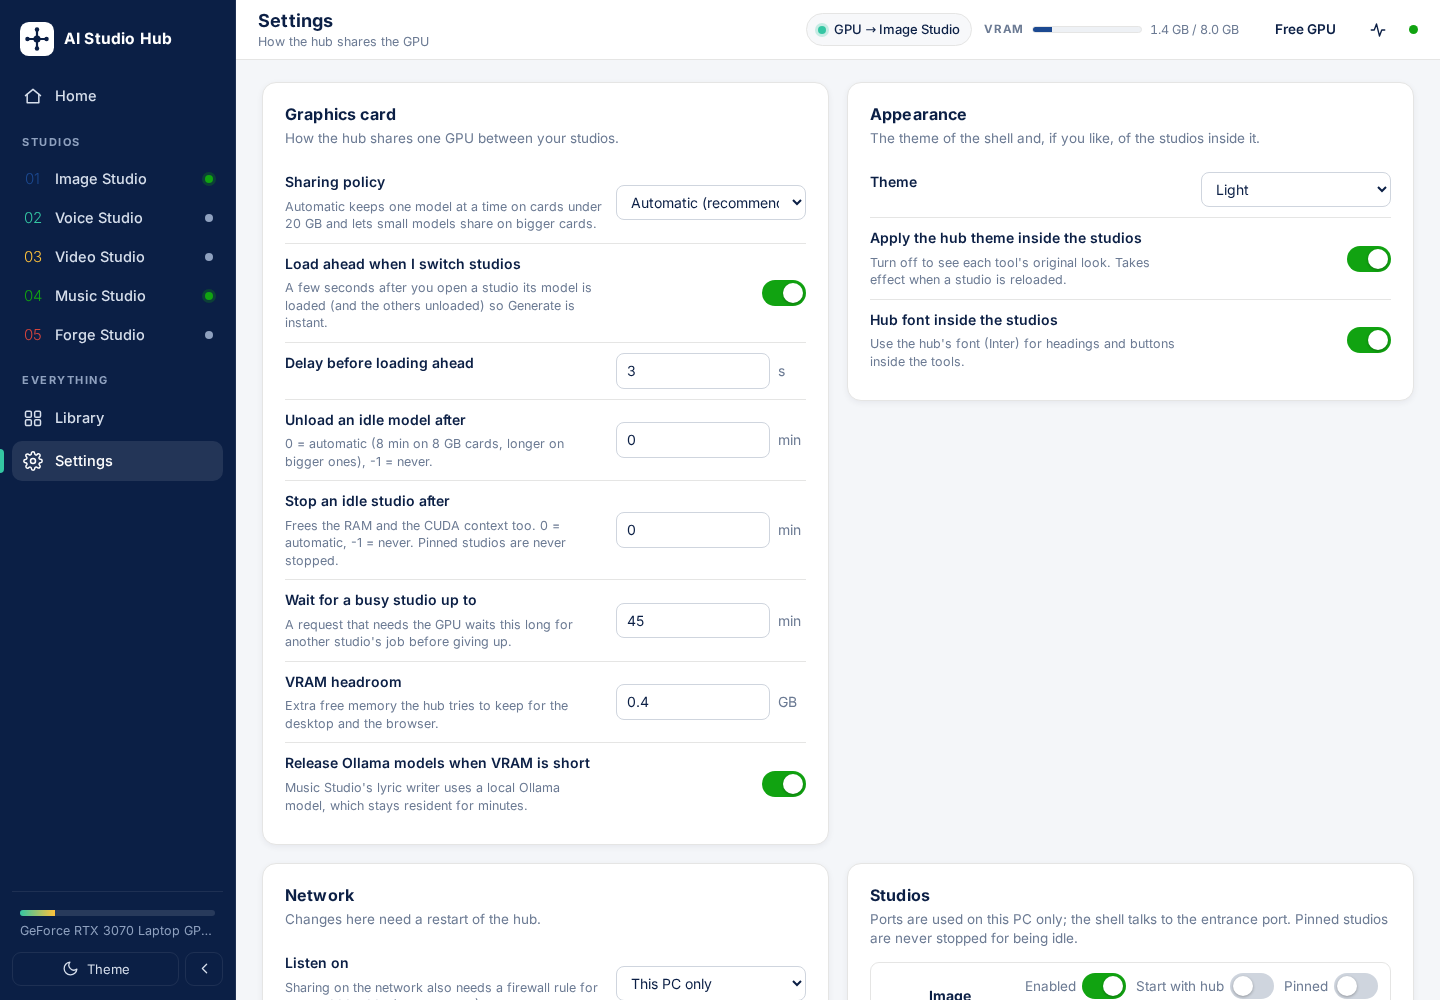
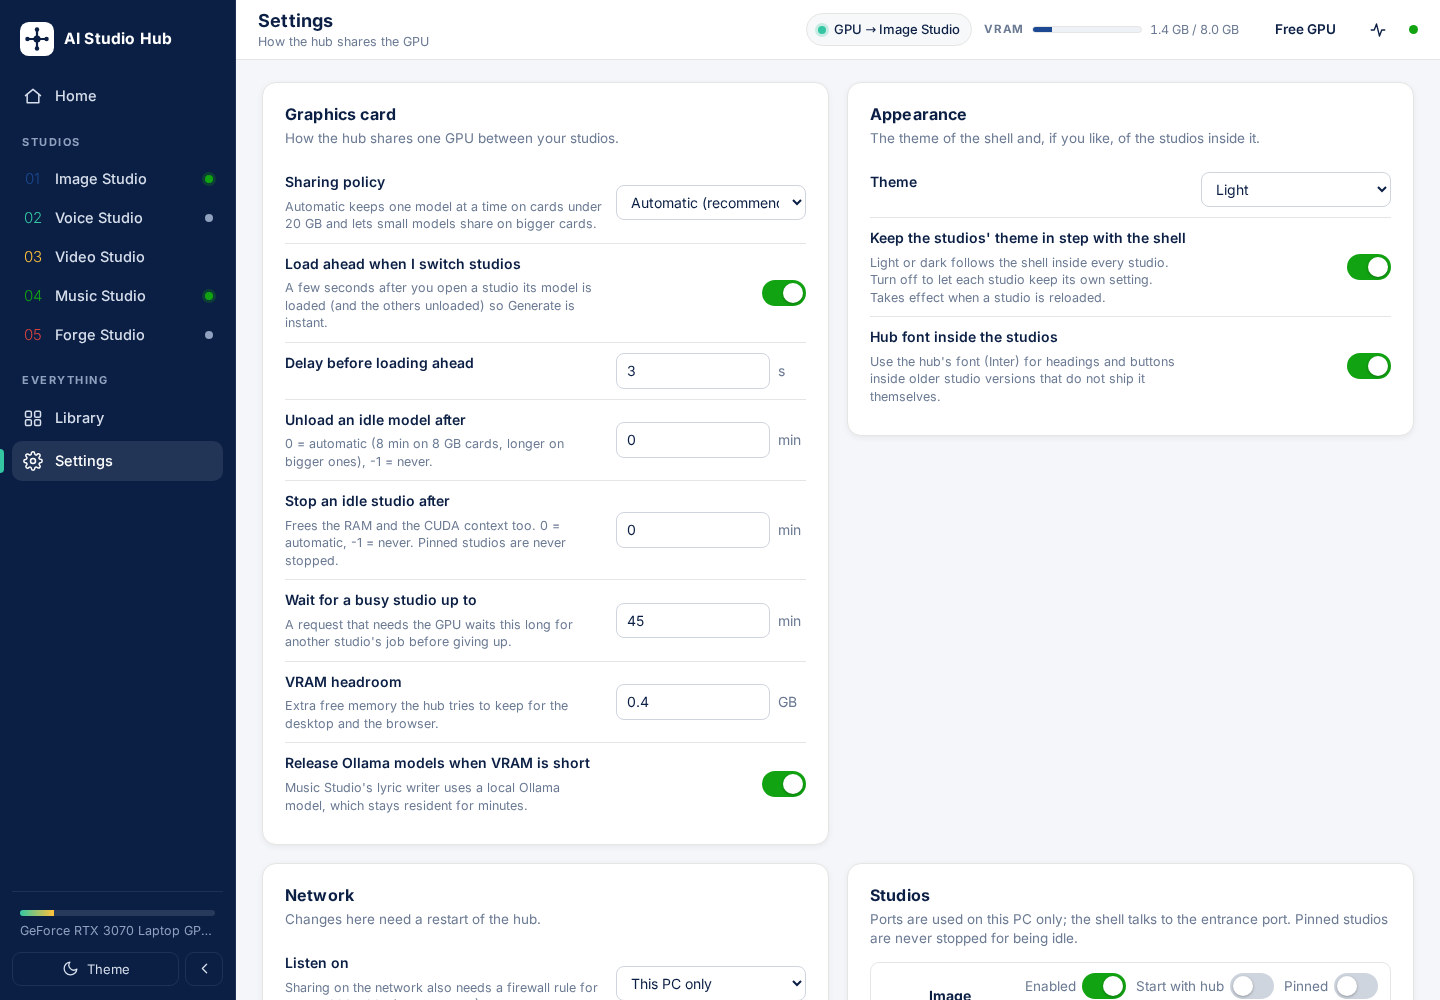
README screenshots with the natively styled studios; idle timer counts a restart as activity
Home, Library, Settings and the two studio-in-the-shell captures (Image and
Music) retaken with all five restyled studios running.

Fix: the idle policy judged a studio by its last activity even when that was
before it was last stopped, so a freshly started studio could be "idle for
28 min" and stopped again seconds later. A start now resets the clock.

Changed region(s): [[0.5938, 0.217, 0.8125, 0.403], [0.9375, 0.31, 0.9688, 0.403], [0.9375, 0.248, 0.9688, 0.279]]

diff --git a/hub/orchestrator.py b/hub/orchestrator.py
@@ -486,7 +486,8 @@ class Orchestrator:
             summ = self.summary(t.id)
             if summ.busy or self._lock.locked():
                 continue
-            last = self.last_activity.get(t.id) or t.started_at or now
+            # A restart counts as activity: never judge a studio by what it did before it was last stopped.
+            last = max(self.last_activity.get(t.id, 0.0), t.started_at) or now
             idle_min = (now - last) / 60
             if unload_min > 0 and summ.loaded and idle_min >= unload_min and t.spec.supports_unload:
                 await self.unload_models(t, f"idle for {int(idle_min)} min")

diff --git a/README.md b/README.md
@@ -25,10 +25,13 @@ container, the `linux/` packaging every studio ships).
 
 ![Home - the card, the studios and what the hub did](docs/screenshots/home.png)
 
-*Home: live VRAM, the studios with their model state, and the activity feed. Every studio opens inside the shell with
-the hub's theme applied - here Image Studio, with the GPU handed to it:*
+*Home: live VRAM, the studios with their model state, and the activity feed. Every studio shares the same design
+language ([docs/design.md](docs/design.md)) and opens inside the shell - here Image Studio with the GPU handed to it,
+and Music Studio:*
 
 ![Image Studio inside the shell](docs/screenshots/studio.png)
+
+![Music Studio inside the shell](docs/screenshots/studio-music.png)
 
 *Library: everything the studios have made, in one grid (filtered to videos here):*
 
